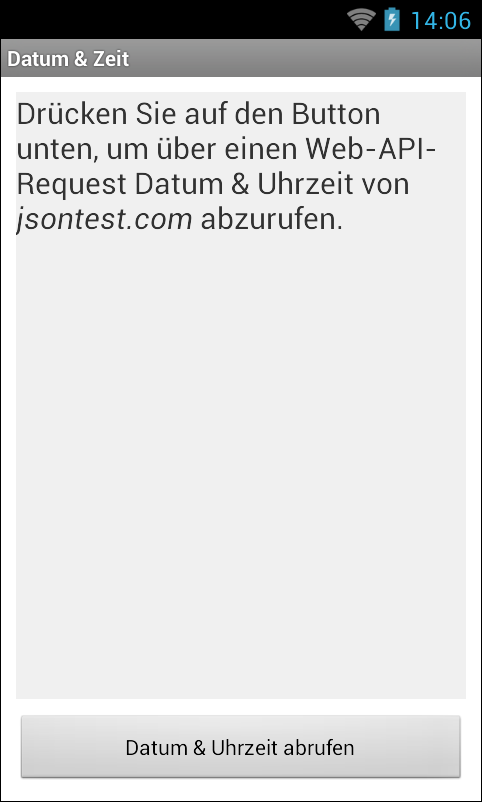
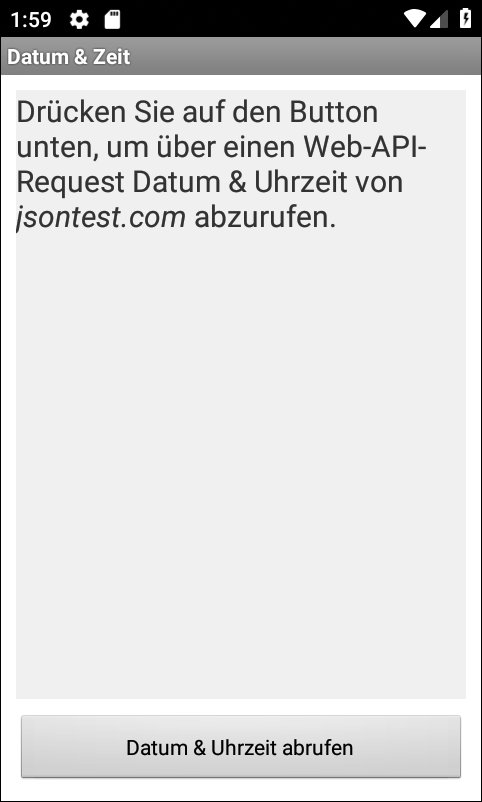
Renewed the two screenshots.

diff --git a/README.md b/README.md
@@ -17,6 +17,10 @@ Identifiers (names for classes, variables and methods), UI text and (JavaDoc) co
 
 <br>
 
+The screenshots were taken from emulator.
+
+<br>
+
 ----
 # License
 
